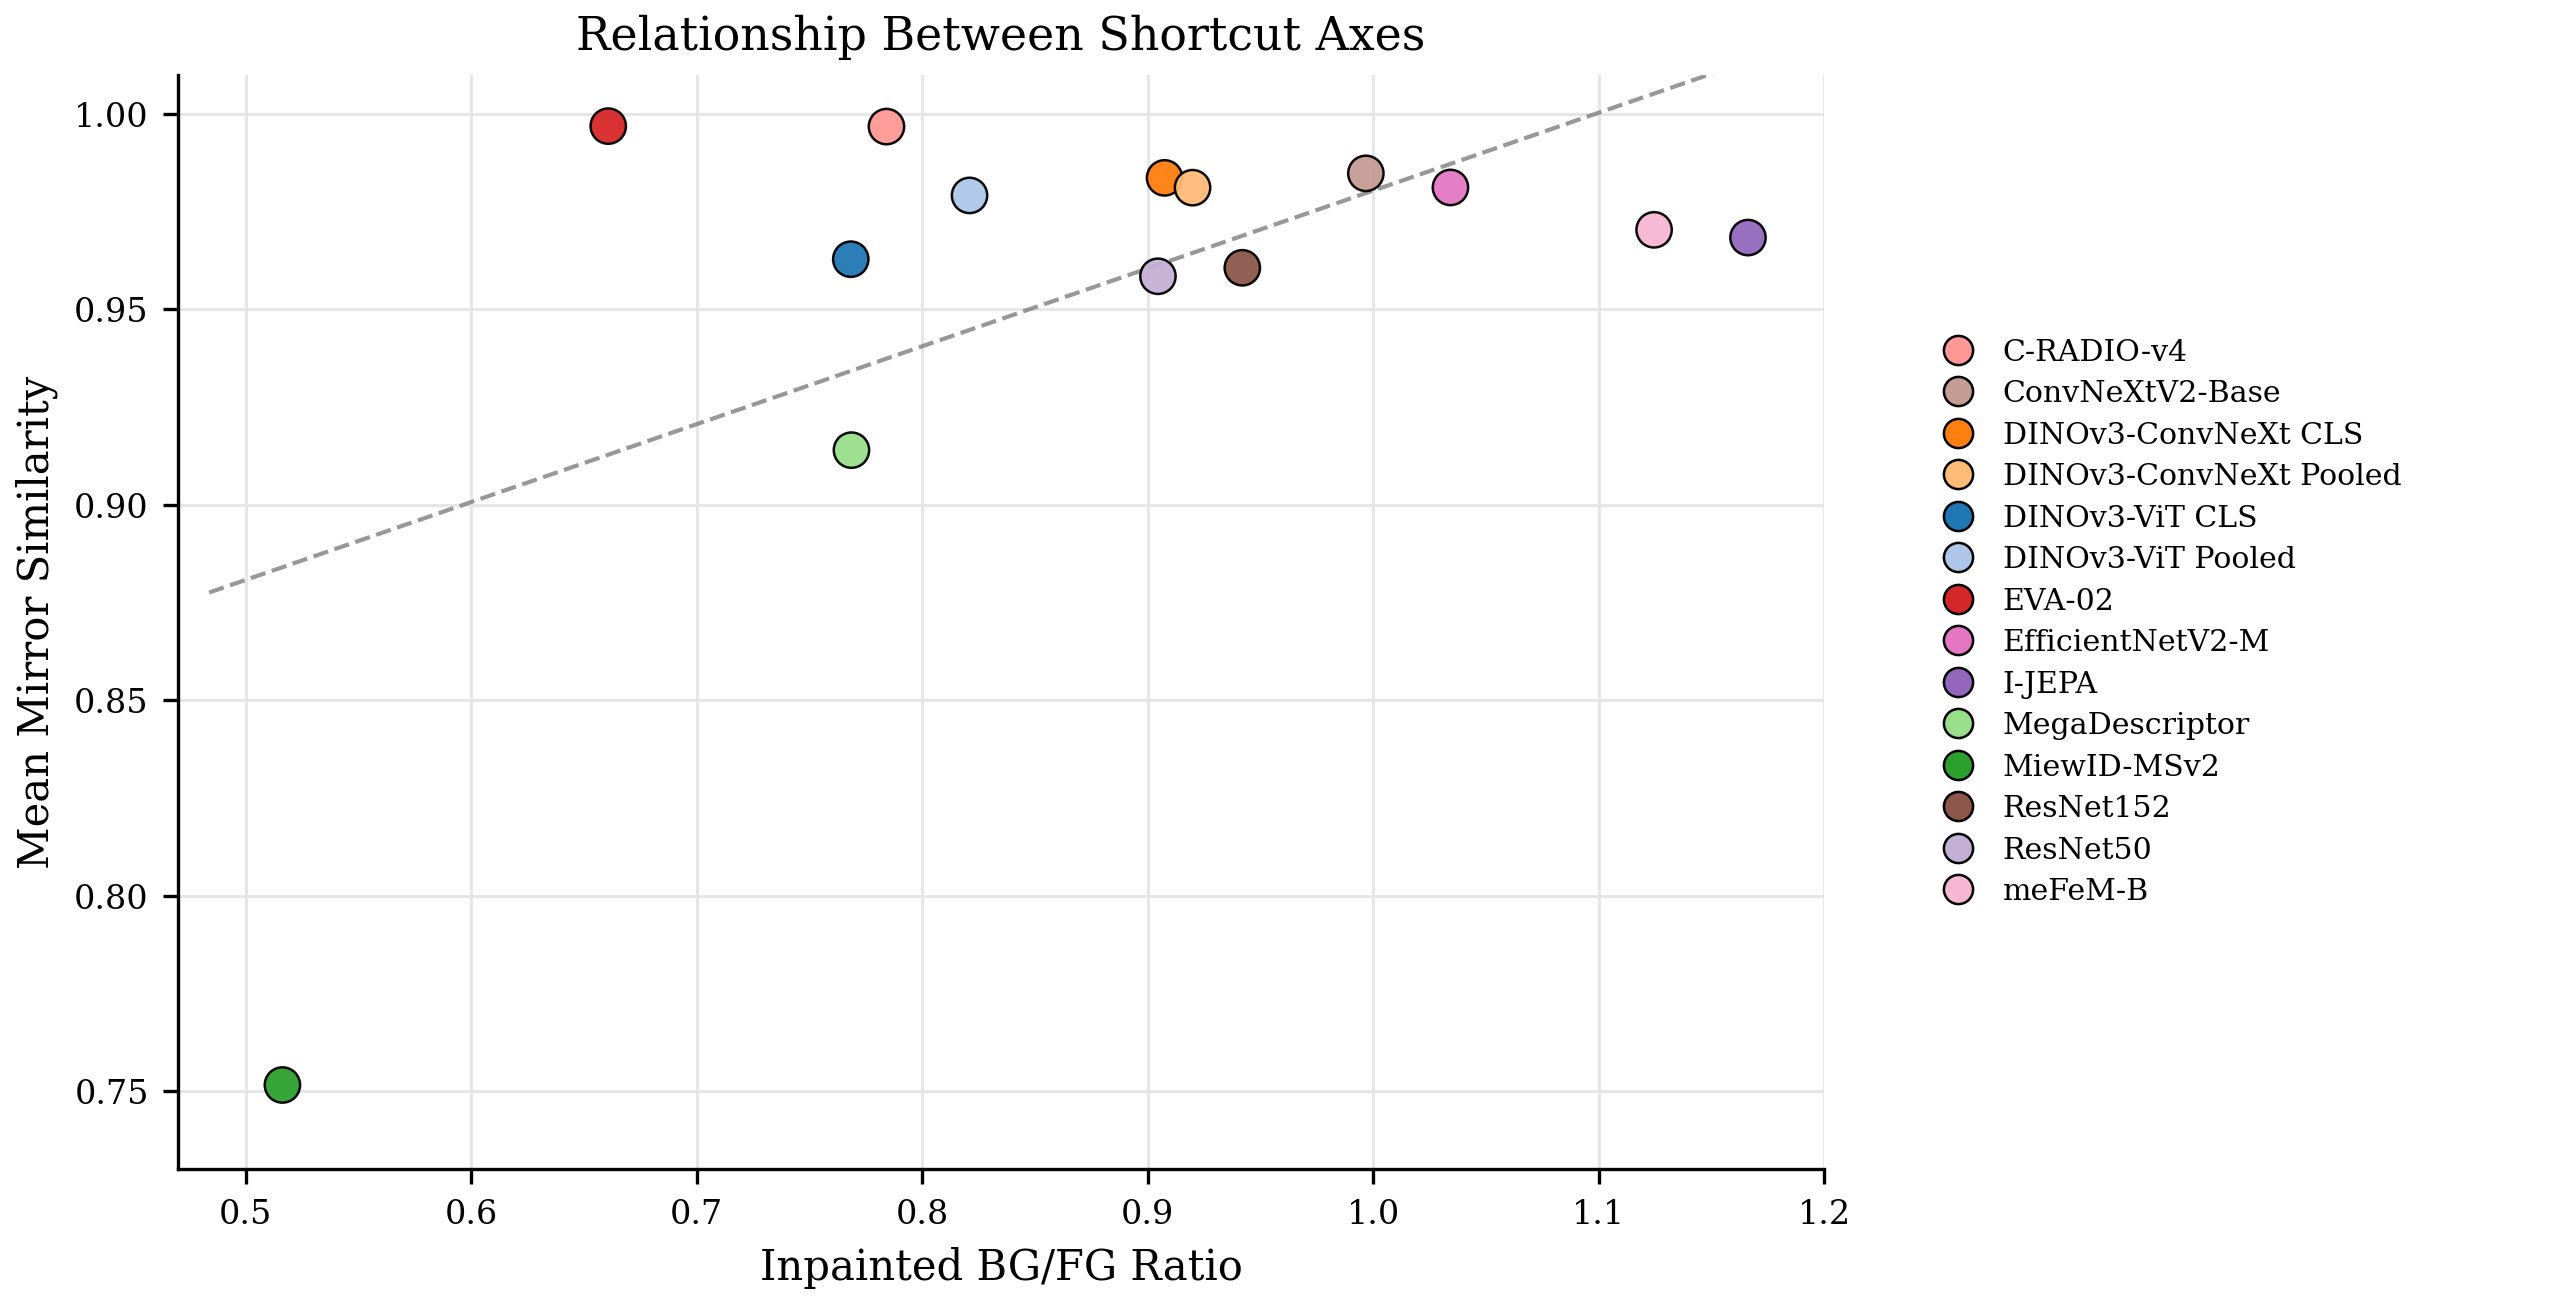
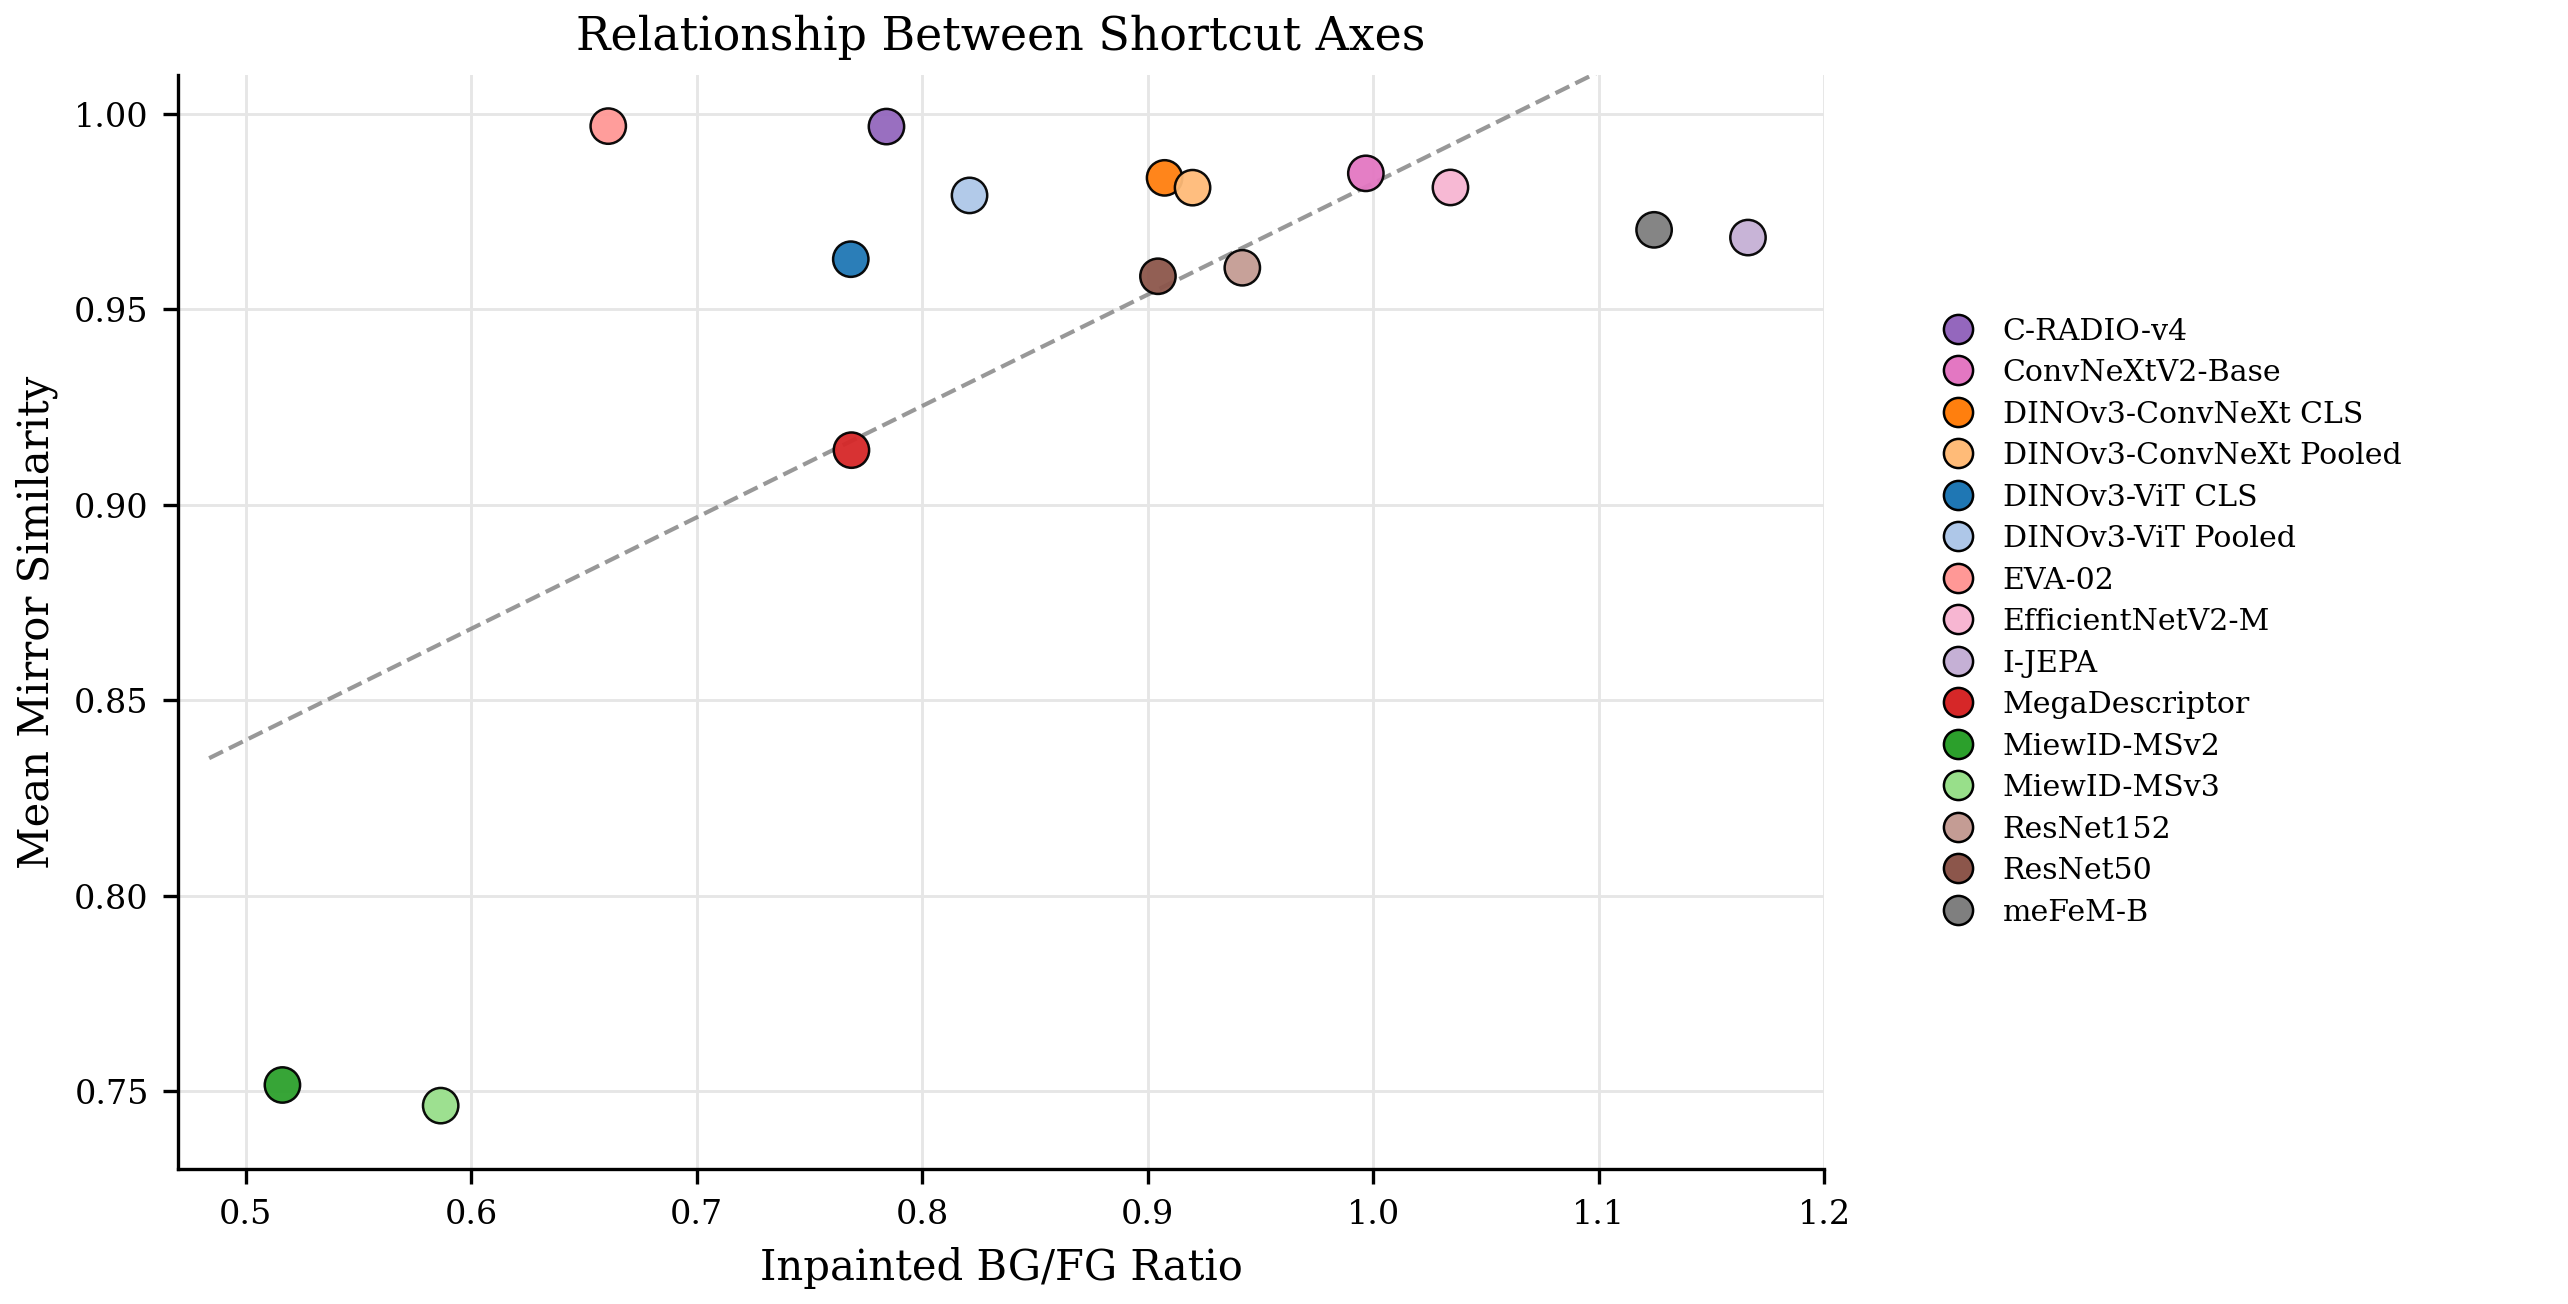
website: publish HyperView demo updates

diff --git a/index.html b/index.html
@@ -102,6 +102,12 @@
                 </a>
               </span>
               <span class="link-block">
+                <a href="https://hyper3labs-jaguar-hyperview-multigeometry.hf.space/" class="external-link button is-normal is-rounded is-dark">
+                  <span class="icon">&#129303;</span>
+                  <span>HF Space</span>
+                </a>
+              </span>
+              <span class="link-block">
                 <a href="https://www.kaggle.com/competitions/jaguar-re-id" class="external-link button is-normal is-rounded is-dark">
                   <span class="icon"><i class="fab fa-kaggle"></i></span>
                   <span>Kaggle R1</span>
@@ -286,7 +292,7 @@
           <img src="static/images/fig5_bgfg_vs_mirror_scatter.png"
                alt="BG/FG vs Mirror Similarity scatter plot">
           <figcaption class="has-text-centered is-size-7 mt-2">
-            <strong>Relationship between shortcut axes.</strong> No clear monotonic association (Spearman &rho; = 0.152, p = 0.605). Models robust on one axis can be brittle on the other.
+            <strong>Relationship between shortcut axes.</strong> No clear monotonic association (Spearman &rho; = 0.307, p = 0.265; N=15). Models robust on one axis can be brittle on the other.
           </figcaption>
         </figure>
       </div>
@@ -456,6 +462,36 @@
             with a gap of 0.162 between MiewID and the next-best non-MiewID model.
           </figcaption>
         </figure>
+      </div>
+    </div>
+  </div>
+</section>
+
+<!-- Interactive Demo -->
+<section class="section" id="interactive-demo">
+  <div class="container is-max-desktop interactive-demo-container">
+    <div class="columns is-centered">
+      <div class="column is-10">
+        <h2 class="title is-3 has-text-centered">Demo: Inspection of the Embedding Space</h2>
+        <div class="interactive-demo-card">
+          <p class="content has-text-centered interactive-demo-copy">
+            Explore the HyperView Space directly in the page to compare jaguar embeddings across model geometries.
+          </p>
+          <div class="interactive-demo-shell">
+            <iframe
+              src="https://hyper3labs-jaguar-hyperview-multigeometry.hf.space"
+              title="Jaguar HyperView multigeometry demo"
+              class="interactive-demo-frame"
+              loading="lazy"
+              allowfullscreen
+            ></iframe>
+          </div>
+          <p class="has-text-centered interactive-demo-link">
+            <a href="https://hyper3labs-jaguar-hyperview-multigeometry.hf.space" target="_blank" rel="noopener noreferrer">
+              Open the demo in a new tab
+            </a>
+          </p>
+        </div>
       </div>
     </div>
   </div>

diff --git a/static/css/index.css b/static/css/index.css
@@ -239,6 +239,54 @@ figcaption {
   color: #e2e8f0;
 }
 
+/* Interactive demo */
+.interactive-demo-container {
+  max-width: 1248px !important;
+}
+
+.interactive-demo-card {
+  background: var(--bg-white);
+  border: 1px solid var(--border-color);
+  border-radius: 16px;
+  box-shadow: var(--shadow-sm);
+  padding: 1.5rem;
+}
+
+.interactive-demo-copy {
+  margin-bottom: 1rem !important;
+}
+
+.interactive-demo-shell {
+  background: var(--bg-white);
+  border-radius: 12px;
+  overflow: hidden;
+  box-shadow: var(--shadow-md);
+}
+
+.interactive-demo-frame {
+  width: 100%;
+  height: 760px;
+  border: 1px solid #dce4e8;
+  border-radius: 12px;
+  background: var(--bg-white);
+  display: block;
+}
+
+.interactive-demo-link {
+  margin-top: 0.85rem;
+  margin-bottom: 0;
+}
+
+.interactive-demo-link a {
+  color: var(--primary-color);
+  font-weight: 600;
+}
+
+.interactive-demo-link a:hover {
+  color: var(--primary-dark);
+  text-decoration: underline;
+}
+
 /* Footer */
 .footer {
   padding: 2rem 1.5rem;
@@ -282,6 +330,20 @@ figcaption {
 
   .axis-box {
     margin-bottom: 1rem;
+  }
+
+  .interactive-demo-card {
+    padding: 1rem;
+  }
+
+  .interactive-demo-frame {
+    height: 560px;
+  }
+}
+
+@media screen and (max-width: 480px) {
+  .interactive-demo-frame {
+    height: 420px;
   }
 }
 
